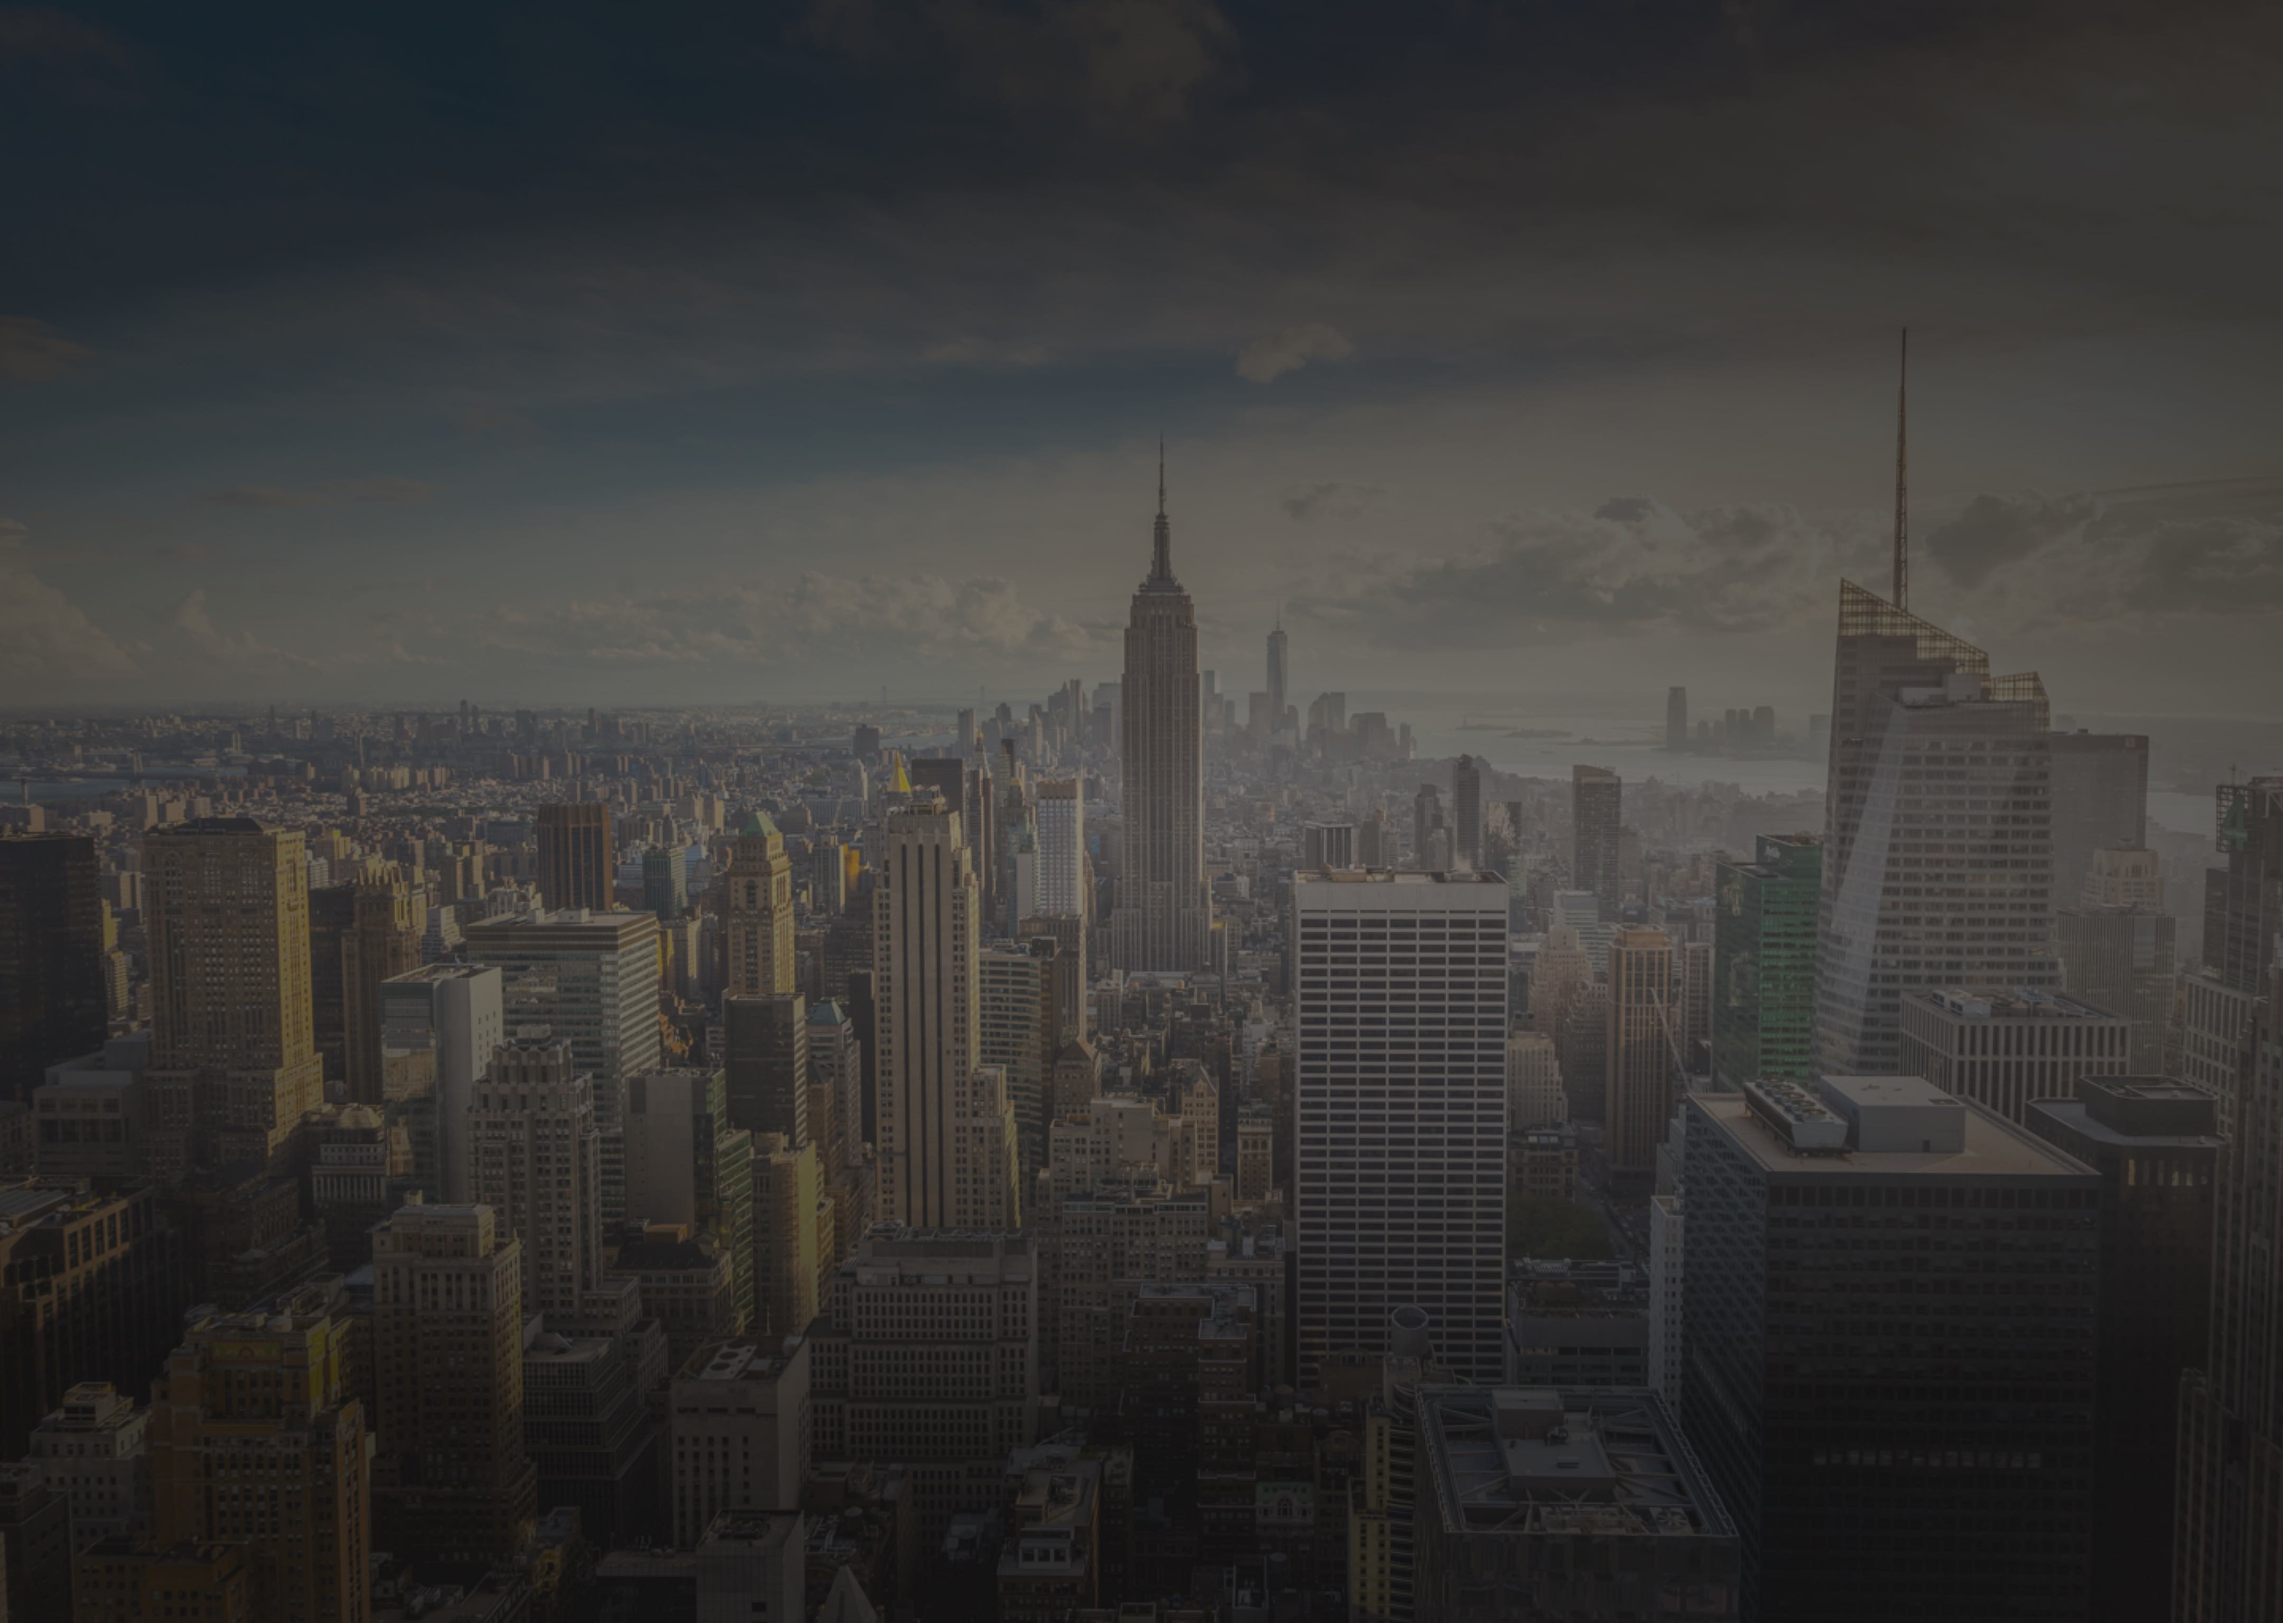
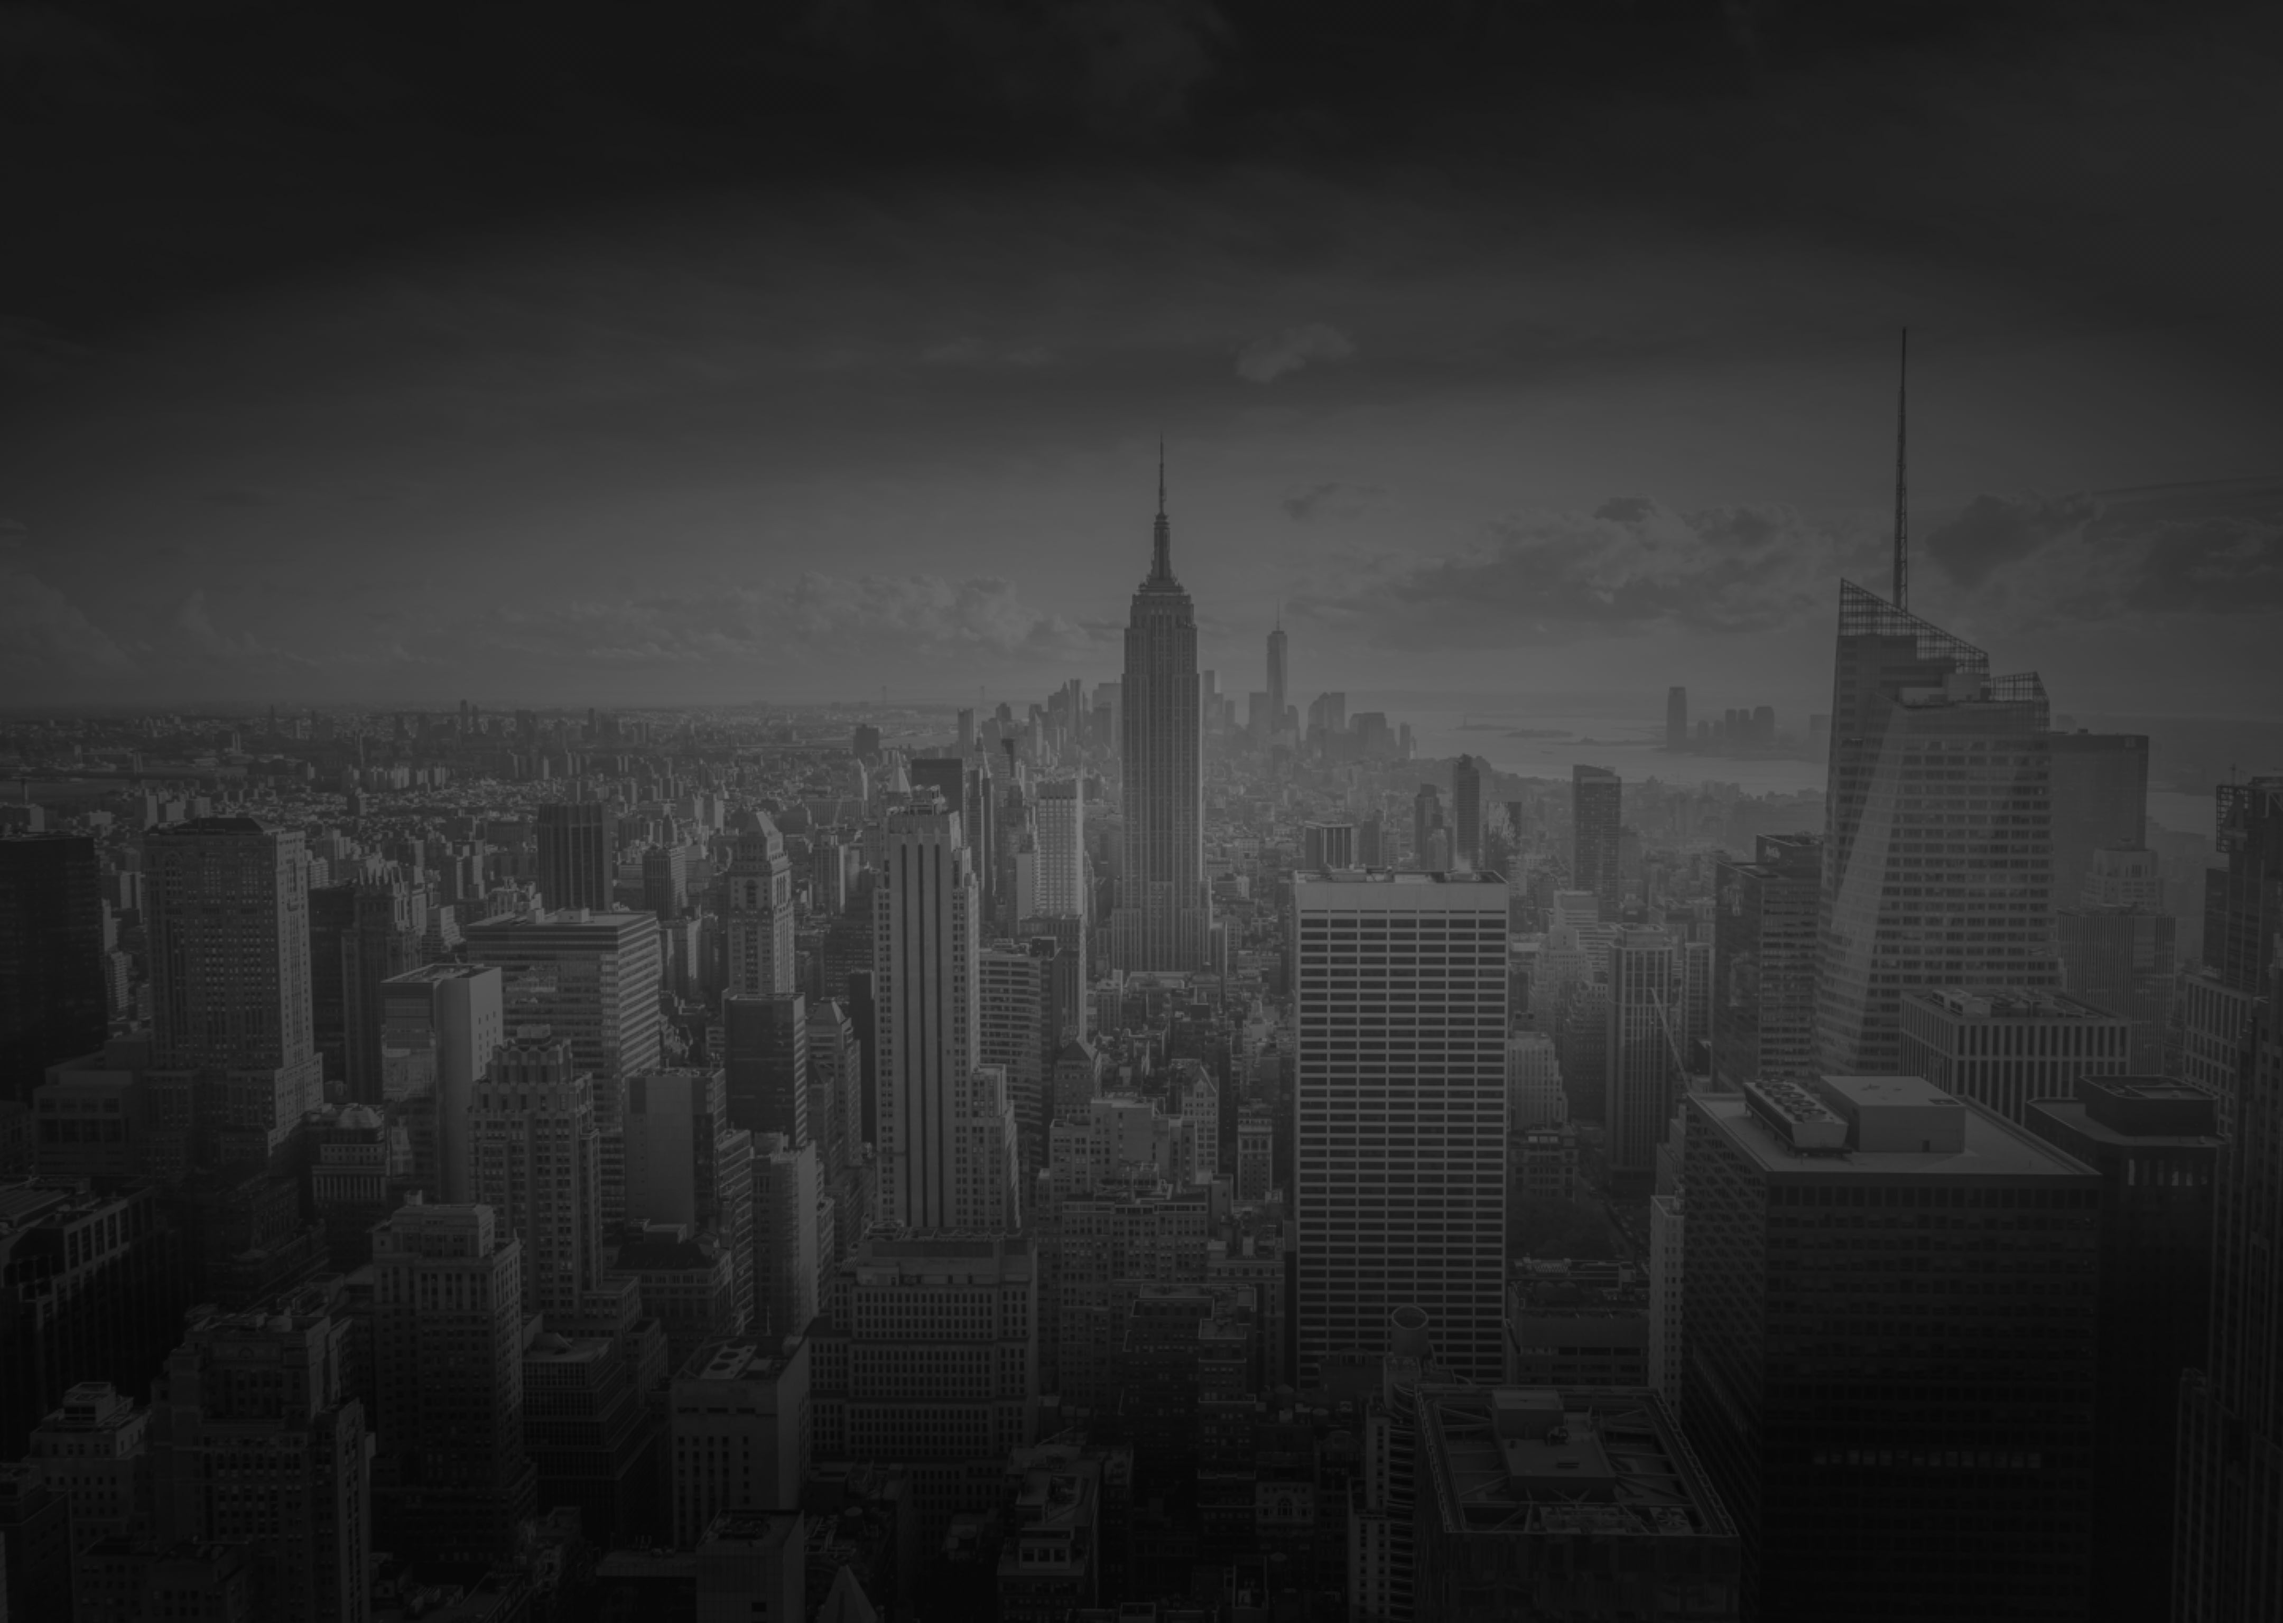
Change to B&W

diff --git a/app/assets/stylesheets/style.css.scss b/app/assets/stylesheets/style.css.scss
@@ -20,7 +20,7 @@ body {
   padding-top: 18px;
   padding-bottom: 25px;
   width: 25%;
-  border: 1px solid #FFFFFF;
+  border: 1px solid rgba(255, 255, 255, .5);
   border-radius: 15px;
   text-align: center;
   margin-top: 52px;
@@ -34,7 +34,6 @@ body {
   background: url('/assets/button.png') no-repeat scroll 0 0 transparent;
   background-size: 100%;
   border: 0px;
-  transition: background 0.8s;
 }
 #b-home:hover {
   width: 60px;
@@ -83,7 +82,7 @@ body {
   right: 0;
   color: #FFFFFF;
   text-align: center;
-  font-weight: medium;
+  font-weight: 300;
   letter-spacing: 2px;
   vertical-align: center;
   overflow: auto;
@@ -95,6 +94,7 @@ body {
   text-align: center;
   left: 0;
   right: 0;
+  letter-spacing: 1px;
   bottom: 0.5%;
 }
 .link {
@@ -238,11 +238,12 @@ tr {
 #quotePar {
   text-align: left;
   margin-top: 20%;
+  font-weight: 500;
   display: inline;
 }
 #quoteParNoLink {
   text-align: left;
-  font-weight: bold;
+  font-weight: 500;
   margin-top: 20%;
   display: inline;
   font-family: 'Roboto', sans-serif;
@@ -251,7 +252,7 @@ tr {
 a,a:link,a:visited,a:active,#quotePar, #about-link{
   margin-top: 20%;
   display: inline;
-  font-weight: bold;
+  font-weight: 500;
   font-family: 'Roboto', sans-serif;
   color: white;
   cursor:pointer;
@@ -409,7 +410,7 @@ p#quotePar {
 .dropdown-content a {
     text-align: center;
     font-family: 'Roboto', sans-serif;
-    font-weight: medium;
+    font-weight: 400;
     font-size: 12px;
     color: #409fb6;
     padding: 5px;
@@ -448,7 +449,7 @@ p#quotePar {
   font-size: 12px;
   padding: 2px;
   transition: background-color 0.25s;
-  font-weight: bold;
+  font-weight: 400;
   color: #FFFFFF;
   outline: none;
 }
@@ -470,7 +471,7 @@ p#quotePar {
   color: #70cfe6;
   margin-top: 15px;
   text-shadow: none;
-  letter-spacing: 1px;
+  letter-spacing: 2px;
 }
 .popover {
     width: 450px
